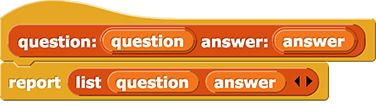
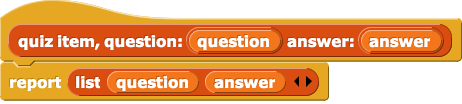
2.2 edits

diff --git a/cur/teaching-guide/U2/lab-pages/2-data-art.html b/cur/teaching-guide/U2/lab-pages/2-data-art.html
@@ -11,43 +11,6 @@
         <h2>Lab 2: Making Lists</h2>
         <div class="todo">Need to replace problem decomposition with modularity per AAP-3.B.2 and AAP-3.B.2. See vocab box on <a href="/bjc-r/cur/programming/3-lists/1-introduction-to-lists/3-looking-up-data.html?topic=nyc_bjc%2F3-lists.topic&course=bjc4nyc.html&novideo&noassignment">3.1.3, Selecting Specific Data</a>. (Appears on pages 2.2.1, for each; 2.2.4, mandala; 2.4.3, brick wall; 2.OP.4, plurals 1; and TG for 2.2 and 2.OP) --MF, 4/9/19</div>
         <div class="todo">
-            <h2>Old Shopping List Stuff to Integrate</h2>
-            <h3>Goals for the Lab:</h3>
-            <div>
-                <ul>
-                    <li>
-                        <strong>Page 1: Shopping List App.</strong>
-                        <ul>
-                            <li>Understand what a list is and be able to create one.</li>
-                            <li>Be able to (1) create a variable for storing a list, (2) initialize the variable and (3) populate the list.</li>
-                            <li>Use the <code>contains</code> list function to see whether a particular list contains a particular element.</li>
-                            <!--<li>(+) Be able to search, access and modify a list.</li>-->
-                        </ul>
-                    </li>
-                </ul>
-            </div>
-            <h3>As a Class:</h3>
-            <div>
-                <ul>
-                    <li>
-                        <strong>Page 1: Shopping List App.</strong>
-                        <ul>
-                            <div class="comment">When time, add a Google doc. --MF</div>
-                            <li>Opener: Present a short script in which a list is used without having first been initialized, resulting in an error. Ask students: What might have caused the error? What is the proper way to address this issue? </li>
-                            <li>
-                              Discussion: You may wish to review different types of data in Snap<em>!</em>: strings, lists, Booleans, numbers, functions, etc. You might ask:
-                                <ul>
-                                    <li>What is is the difference between a string and a list? (Students without prior programming experience may wonder, "what's <em>the same</em> between a string and a list?" The answer is that they're both aggregates. A string is an aggregate whose items are restricted to single characters; a list is an aggregate whose items can be anything.)</li>
-
-                                    <li>What actions can you perform on a list? What can you use lists for? (Actions might be "add an item" or "order the items"; project ideas might be "track earnings and expenses" or "organize sports data.")</li>
-                                    <li>What data types can be list items? Invite students to experiment with Snap<em>!</em> to answer this question and to consider contexts for which including various data types in a list would be useful. (A list can contain <em>any</em> data type  <em>anywhere</em>. Students will have seen only a limited set of values at this point.)</li>
-                                    <li>Can you put a list in a list? (Yes, <em>any</em> data type <em>anywhere</em>.) What are some examples of a list within a list? (Students may not have examples just yet.) This is both a preview of the next lab, "Nesting Lists," and also an introduction to the idea that nesting computational objects is common in programming. </li>
-                                </ul>
-                            </li>
-                        </ul>
-                    </li>
-                </ul>
-            </div>
             
             <div class="todo">Integrate from U1L1: 
                 <li>LG: Get to know the Snap<em>!</em> coordinate system.</li>
@@ -64,8 +27,6 @@
                     <li>
                         <strong>Across Unit 3.</strong>
                         <ul>
-                            <li><div class="sidenote">Many of the <span class="snap">snap</span> projects linked from the student pages already have the tools imported.</div>
-                            Students will have to <img class="inline" src="/bjc-r/img/icons/import-tools.png" alt="Import Tools" title="Import Tools" /> in order to access the blocks they need, every time they open a new <span class="snap">snap</span> window. (Links to projects in the curriculum have been shared with the tools already imported.)</li>
                             <li>The words "item" and "element" have the same meaning. We use "item" here because that's the name of the block that examines an item in a list. You may want to favor that word, too.</li>
                             <li>In Snap<em>!</em>, the first item of a list is considered item number 1, not number 0 as in some other languages. We think this is clearly advantageous for learners: "the third item" and "item 3" should refer to the same thing. Zero-origin list indexing is a leftover from low-level languages that do arithmetic on array indices. It's fine if some student thinks zero-origin is "right," but feel free also to say that one design goal of computer language is to be clear, and this language (Snap<em>!</em>) is designed so that ordinals (first, second, third) and cardinals (1, 2, 3)  match.</li>
                             <li>We are encouraging functional programming style, which in this case means favoring the list reporters over the list commands. Make sure that students understand, for example, that <code>all but first of</code> makes a new list; the original list given as its input is not modified.</li>
@@ -75,22 +36,11 @@
                             </li>
                         </ul>
                     </li>
-                    <li>
-                        <strong>Page 1: Shopping List App.</strong>
-                        <ul>
-                            <li>If some students work through this page more quickly than others, encourage those students to do some of the Take it Further exercises and also to consider designing and making their own adaptations to their Shopping List App.</li>
-                            <li><code>Keep</code> and <code>Combine</code> are presented here. If you are assigning lab 3, this is a good time to make sure all the students are exposed to these higher order list functions. If you are skipping lab 3, you can skip these as well.</li>
-                        </ul>
-                    </li>
+                    
                 </ul>
             </div>
     
-            <h3>Solutions</h3>
-            <div>
-                <ul>
-                    <li><a href="http://snap.berkeley.edu/snapsource/snap.html#cloud:Username=BJCsolutions&ProjectName=U3L1p1%20all%20ShoppingList%20(answer%20file)" target="_blank">page 1 (Shopping List)</a></li>
-                </ul>
-            </div>
+            
         </div>
         <p>The <code>list</code> block is the basic building block of many  complex structures. Lists can contain anything: numbers, strings, other lists, even blocks. The objects <em>in</em> a list can be all of the same kind or of different kinds. A list can, for example, contain an apartment number and a list of people at that address. The tabular data we see in spreadsheets can be represented as a list of same-length lists, the smaller lists representing each row in the table, and the enclosing list representing the entire spreadsheet.</p>
         <p> The "ordered pair" of algebra, the (<em>x</em>, <em>y</em>) coordinates of a point on a plane, can be represented as a list of two numbers. Students will use a list of ordered pairs to draw a shape or plot a graph.</p>
@@ -133,6 +83,96 @@
 		<div>
 			<ul>
 				<li>
+					<strong>Page 1: Shopping List App.</strong>
+					<div class="todo"><h2>What of this Old Shopping List Stuff do we want to Integrate? --MF, 7/2/19</h2>
+                        <div class="comment">When time, add a Google doc. --MF</div>
+                        <ul>
+                            <li>Opener: Present a short script in which a list is used without having first been initialized, resulting in an error. Ask students: What might have caused the error? What is the proper way to address this issue? </li>
+                            <li>
+                              Discussion: You may wish to review different types of data in Snap<em>!</em>: strings, lists, Booleans, numbers, functions, etc. You might ask:
+                                <ul>
+                                    <li>What is is the difference between a string and a list? (Students without prior programming experience may wonder, "what's <em>the same</em> between a string and a list?" The answer is that they're both aggregates. A string is an aggregate whose items are restricted to single characters; a list is an aggregate whose items can be anything.)</li>
+
+                                    <li>What actions can you perform on a list? What can you use lists for? (Actions might be "add an item" or "order the items"; project ideas might be "track earnings and expenses" or "organize sports data.")</li>
+                                    <li>What data types can be list items? Invite students to experiment with Snap<em>!</em> to answer this question and to consider contexts for which including various data types in a list would be useful. (A list can contain <em>any</em> data type  <em>anywhere</em>. Students will have seen only a limited set of values at this point.)</li>
+                                    <li>Can you put a list in a list? (Yes, <em>any</em> data type <em>anywhere</em>.) What are some examples of a list within a list? (Students may not have examples just yet.) This is both a preview of the next lab, "Nesting Lists," and also an introduction to the idea that nesting computational objects is common in programming. </li>
+                                </ul>
+                            </li>
+                        </ul>
+                    </div>
+                    <ul>
+						<li>
+							<strong>Learning Goals:</strong>
+							<ul>
+                                <li>Understand what a list is and be able to create one.</li>
+                                <li>Be able to (1) create a variable for storing a list, (2) initialize the variable and (3) populate the list.</li>                            
+							</ul>
+						</li>
+						<li>
+							<strong>Tips:</strong>
+							<ul>
+                                <li>
+                                    A common mistake is for programmers to create an initialization instruction (the <code>set</code> instruction) but forget to run it (e.g., actually click it). If students run into the following error, they need to run <code>set (shopping list) to (list)</code> to initialize the list.<br />
+                                    <img class="indent" src="/bjc-r/img/2-complexity/error-list-not-initialized.png" alt="code for 'Add Item' button displaying a speech balloon with the error message 'Error; expecting list but getting number' displayed beside a 'shopping list' watcher showing the value of that variable to be 0" title="code for 'Add Item' button displaying a speech balloon with the error message 'Error; expecting list but getting number' displayed beside a 'shopping list' watcher showing the value of that variable to be 0" />
+                                </li>
+                            </ul>
+                        </li>
+                    </ul>
+                </li>
+                <li>
+					<strong>Page 2: Planning a Quiz App.</strong>
+					<ul>
+						<li>
+							<strong>Learning Goals:</strong>
+							<ul>
+                                <li>Understand what an abstract data type (ADT) is, how it's helpful, and how to construct one by building a constructor and selectors.</li>                            
+							</ul>
+						</li>
+						<li>
+							<strong>Tips:</strong>
+							<ul>
+                                <li>ADTs appear in several projects throughout the year, including a <code>point</code> ADT for storing locations on the stage later in this unit, a <code>contact</code> ADT for storing individuals' data in a contact list in Unit 3, and selectors for a <code>table</code> ADT used for data processing in Unit 5. This first introduction relies on the simple an intuitive connection between quiz questions and their associated correct answers.</li>
+                            </ul>
+                        </li>
+                    </ul>
+                </li>
+                <li>
+					<strong>Page 3: Checking Each Quiz Answer.</strong>
+					<ul>
+						<li>
+							<strong>Learning Goals:</strong>
+							<ul>
+                                <li></li>                            
+							</ul>
+						</li>
+						<li>
+							<strong>Tips:</strong>
+							<ul>
+                                <li></li>
+                            </ul>
+                        </li>
+                    </ul>
+                </li>
+                <li>
+					<strong>Page 4: ...</strong>
+					<ul>
+						<li>
+							<strong>Learning Goals:</strong>
+							<ul>
+                                <li></li>                            
+							</ul>
+						</li>
+						<li>
+							<strong>Tips:</strong>
+							<ul>
+                                <li></li>
+                            </ul>
+                        </li>
+                    </ul>
+                </li>
+                <div class="todo">
+                    <h1>Old Stuff Below; probably much is salvageable</h1></div>
+                <li>
 					<strong>Page 1: Processing Each Item in a List.</strong>
 					<ul>
 						<li>
@@ -303,7 +343,14 @@
 
 
         <h3>Solutions</h3>
-		<div class="todo">2.2.3 Solution (and perhaps other files) has household income stag costume in it. Check that this is correct. --MF, 1/18/19</div><div>
+		<div class="todo"><h1>SOLUTIONS NEED WORK --MF, 7/2/19</h1></div>
+        <div class="todo">2.2.3 Solution (and perhaps other files) has household income stag costume in it. Check that this is correct. --MF, 1/18/19</div><div>
+        <div class="todo"><h3>OLDSolutions</h3>
+            <div>
+                <ul>
+                    <li><a href="http://snap.berkeley.edu/snapsource/snap.html#cloud:Username=BJCsolutions&ProjectName=U3L1p1%20all%20ShoppingList%20(answer%20file)" target="_blank">page 1 (Shopping List)</a></li>
+                </ul>
+            </div></div>
         <div>
             <ul>
                 

diff --git a/cur/programming/2-complexity/2-data-structures-art/2-quizzes.html b/cur/programming/2-complexity/2-data-structures-art/2-quizzes.html
@@ -15,6 +15,46 @@
         <div class="learn">
             <p><strong>On this page,</strong> you will begin to develop a quiz app by creating a structure to pair the questions with their answers.</p>
         </div>
+        
+        <div class="forYouToDo" id="first">
+			<ol>
+                <li><img class="inline" src="/bjc-r/img/icons/talk-with-your-partner.png" alt="Talk with Your Partner" title="Talk with Your Partner" />
+Decide what type of quiz you would like to build, and write three to five questions and their correct answers.</li>
+			</ol>
+		</div>
+        
+        <p>
+            You'll use a list to store your quiz items in a variable. You could just put all the questions and their answers in a list like this and then use <img src="/bjc-r/img/blocks/item-empty-full-size.png" height="35" alt="item () of 'list input slot'" title="item () of 'list input slot'"> to retrieve each question and answer:  <br />
+            <img class="indent" src="/bjc-r/img/2-complexity/quiz-questions-list.png" alt="set (computer science quiz) to (list (What is the computer science term for looping or repetition?) (iteration) (What is the name for the abstraction in a program that can hold a value?) (variable) (What kind of variable is available only in the part of the program where it is defined?) (local variable) (What is the process of testing your program, finding problems, and fixing them called?) (debugging))" title="set (computer science quiz) to (list (What is the computer science term for looping or repetition?) (iteration) (What is the name for the abstraction in a program that can hold a value?) (variable) (What kind of variable is available only in the part of the program where it is defined?) (local variable) (What is the process of testing your program, finding problems, and fixing them called?) (debugging))"><br />
+            That might be ok for the first quiz item (you could use <img class="inline nopadtb" src="/bjc-r/img/2-complexity/item-1-of-csquiz.png" alt="item (1) of (computer science quiz)" title="item (1) of (computer science quiz)"> to get the first question and <img class="inline nopadtb" src="/bjc-r/img/2-complexity/item-2-of-csquiz.png" alt="item (2) of (computer science quiz)" title="item (2) of (computer science quiz)"> to get the first answer), but for the third quiz item, you'd need list items five and size, and that approach is inelegant and prone to errors.
+        </p>
+        <p>
+            Instead, you can use a separate list for each quiz item (each question/answer pair) to keep things more organized. Then you could choose one of those lists at a time to work with.
+            <a href="#hint-separate" data-toggle="collapse" title="Click for an example of using a separate list for each quiz item.">Click for an example of using a separate list for each quiz item.</a>
+            <div id="hint-separate" class="collapse">
+                <img class="indent" src="/bjc-r/img/2-complexity/quiz-questions-list-of-lists.png" alt="set (computer science quiz) to (list (list (What is the computer science term for looping or repetition?) (iteration)) (list (What is the name for the abstraction in a program that can hold a value?) (variable)) (list (What kind of variable is available only in the part of the program where it is defined?) (local variable)) (list (What is the process of testing your program, finding problems, and fixing them called?) (debugging)))" title="set (computer science quiz) to (list (list (What is the computer science term for looping or repetition?) (iteration)) (list (What is the name for the abstraction in a program that can hold a value?) (variable)) (list (What kind of variable is available only in the part of the program where it is defined?) (local variable)) (list (What is the process of testing your program, finding problems, and fixing them called?) (debugging)))">
+            </div>
+        </p>
+        <p>
+            But an even for elegant solution is to use abstraction. You could even create a custom block that makes a quiz item so it's easier to see which values are the questions, which are the answers, and what is paired with what:<br />
+            <img class="indent" src="/bjc-r/img/2-complexity/quiz-questions-constructor-definition.png" alt="quiz item, question: (question) answer: (answer) {report (list (question) (answer))}" title="quiz item, question: (question) answer: (answer) {report (list (question) (answer))}">
+            <img class="indent" src="/bjc-r/img/2-complexity/quiz-questions-list-of-adts.png" alt="set (computer science quiz) to (list (question: (What is the computer science term for looping or repetition?) answer: (iteration)) (question: (What is the name for the abstraction in a program that can hold a value?) answer: (variable)) (question: (What kind of variable is available only in the part of the program where it is defined?) answer: (local variable)) (question: (What is the process of testing your program, finding problems, and fixing them called?) answer: (debugging)))" title="set (computer science quiz) to (list (question: (What is the computer science term for looping or repetition?) answer: (iteration)) (question: (What is the name for the abstraction in a program that can hold a value?) answer: (variable)) (question: (What kind of variable is available only in the part of the program where it is defined?) answer: (local variable)) (question: (What is the process of testing your program, finding problems, and fixing them called?) answer: (debugging)))">
+        </p>
+    <div class="todo">The alt/title text on the second image just above needs attention. Also, should that image have fewer questions? --MF, 7/2/19</div>
+        
+        
+        
+        
+        
+		
+
+        <div class="todo">
+            <hr />
+            <h1>Old version below</h1>
+            <hr />
+        </div>
+        
+        
         <div class="todo">I think they need some kind of solid experience with <code>item of</code> before we abstract it away with an ADT. Gossip was just an introduction and it only used random, so we weren't really thinking about accessing any particular item. I believe something else is needed here before ADTs. --MF, 4/15/19</div>
         <div class="todo">
             <p>Lists can contain letters or words, as you've seen before; lists, as you'll see in this lab; or even blocks, as you'll see in Unit 6. </p>
@@ -34,6 +74,7 @@
             <div class="vocabBig">
 				<p>The <strong>index</strong> of an item in a list is the number for its position in the list.</p>
                 <div class="todo"><p>Every element of a list is assigned a unique <strong>index</strong> for referencing specific elements.</p></div>
+                <div class="todo">AAP-1.C.3 (partial). We address the part about strings on <a href="http://localhost/bjc-r/cur/programming/2-complexity/3-predicates/3-solving-word-puzzle.html?topic=nyc_bjc%2F2-conditionals-abstraction.topic&course=bjc4nyc.html&novideo&noassignment">2.3.3</a>. --MF, 12/19/18</div>
             </div>
         </div> 
 
@@ -52,6 +93,7 @@
         <div class="forYouToDo" id="first">
             <ol>
             	<li><div class="newProject"><span class="text">"U2L2-Quiz"</span><img src="/bjc-r/img/icons/new-project-called.png" alt="Create a new project called U2L2-Quiz" title="Create a new project called U2L2-Quiz" /></div></li>
+                <div class="todo">We should not have them do it the wrong way first! --MF, 7/2/19</div>
                 <li>Decide what type of quiz you would like to build, write three to five questions and their correct answers, and store them in a variable as a list.</li>
             </ol>
         </div>
@@ -65,6 +107,14 @@
             </ul>
         </div>
         
+        <div class="todo">Shouldn't <code>item of</code> be taught as EBF? --MF, 7/2/19
+            <div class="forYouToDo">
+                <ol start="3">
+                    <li>Experiment with different inputs to the <img class="inline nopadtb" src="/bjc-r/img/blocks/item-empty-full-size.png" alt="item () of 'list input slot'" title="item () of 'list input slot'" /> block to access different rows in the dataset. (This was pulled from U5 and would need to be adapted here.)</li>
+                </ol>
+            </div>
+        </div>
+
         <div class="dialogue">
             <div class="stagedir">
                 <p>The students are discussing how to store each of the quiz questions together with their matching answers.</p>
@@ -138,6 +188,7 @@
                     <img class="indent" src="/bjc-r/img/2-complexity/question-answer-constructor.png" alt="question: () answer: ()" title="question: () answer: ()" />
                     <img class="indent" src="/bjc-r/img/2-complexity/question-selector.png" alt="question from ()" title="question from ()"/>
                     <img class="indent" src="/bjc-r/img/2-complexity/answer-selector.png" alt="answer from ()" title="answer from ()"/>
+                    <div class="todo">Are we certain this shouldn't be a FYTD? With ADTs, I don't think it's decoration. Highlighting the expected input type helps prevent bugs. --MF, 7/2/19</div>
                 </div>
             </ul> 
         </div>

diff --git a/cur/programming/2-complexity/2-data-structures-art/1-shopping-list-app.html b/cur/programming/2-complexity/2-data-structures-art/1-shopping-list-app.html
@@ -26,25 +26,29 @@
         <div class="forYouToDo" id="first">
 			<ol>
                 <img class="imageRight" src="/bjc-r/img/icons/pair-programming-swap-reminder.png" alt="Remember to Do Pair Programming Swaps" title="Remember to Do Pair Programming Swaps" />
-				<li><a class="run" href="/bjc-r/prog/2-complexity/U2L2-ShoppingList.xml" target="_blank"><img class="inline" src="/bjc-r/img/icons/load-save.png" alt="Click here to load this file. Then save it to your Snap! account." title="Click here to load this file. Then save it to your Snap! account."></a> This project contains button costumes for the sprites the user will click to control the items on their shopping list.</li>
+				<li><a class="run" href="/bjc-r/prog/2-complexity/U2L2-ShoppingList.xml" target="_blank"><img class="inline" src="/bjc-r/img/icons/load-save.png" alt="Click here to load this file. Then save it to your Snap! account." title="Click here to load this file. Then save it to your Snap! account."></a> This project contains button costumes for the sprites that the user will click to control the items on their shopping list.</li>
                 <img class="indent" data-gifffer="/bjc-r/img/3-lists/shopping-list-project-v3.gif" alt="animation of shopping list app">
                 <div class="sidenoteBig">You learned how to create and initialize (set) a global variable on <a href="/bjc-r/cur/programming/2-complexity/1-variables-games/4-keeping-score.html?topic=nyc_bjc%2F2-conditionals-abstraction.topic&course=bjc4nyc.html&novideo&noassignment" title="Unit 2 Lab 1 Page 4: Keeping Score with Global Variables">Unit 2 Lab 1 Page 4: Keeping Score with Global Variables</a>.</div>
                 <li>Make a global variable called <var>shopping list</var> to store the information.</li>
                 <li>
-                    Set the starting value of <var>shopping list</var> to be an <em>empty</em> list (a list with nothing in it). You will need a <img class="inline" src="/bjc-r/img/blocks/list-full-size.png" alt="list ()" title="list ()"> block. 
+                    Initialize <var>shopping list</var> as an <em>empty</em> list (a list with nothing in it). You will need a <img class="inline" src="/bjc-r/img/blocks/list-full-size.png" alt="list ()" title="list ()"> block. 
                     <div class="endnote">Use its left arrow to get rid of the input slot so that it looks like this: <img src="/bjc-r/img/blocks/empty-list-block.png" alt="list" title="list">. That way, you will have an empty list rather than a list with one empty item.</div>
                 </li>
             </ol>
         </div>
     
         <div class="vocabBig">
-            <p>An <strong>element</strong> is another name for an item in a list.</p>
-            <div class="todo">
-                AAP-1.C.2 and AAP-1.C.3
-                <p>Re AAP-1.C.3, We address <strong>element</strong> here, <strong>index</strong> on the next page, and the part about strings on <a href="http://localhost/bjc-r/cur/programming/2-complexity/3-predicates/3-solving-word-puzzle.html?topic=nyc_bjc%2F2-conditionals-abstraction.topic&course=bjc4nyc.html&novideo&noassignment">2.3.3</a>. --MF, 12/19/18</p>
-            </div>
+            <div class="todo">BH, I added a sentence here. Edits? --MF, 7/2/19</div>
+            <p>An <strong>element</strong> is another name for an item in a list. It's an individual value in a list.</p>
+            <div class="todo">AAP-1.C.2</div>
         </div>
-        <p>You can use the <img class="inline" src="/bjc-r/img/blocks/insert.png" alt="insert (thing) at (1) of 'list input slot'" title="insert (thing) at (1) of 'list input slot'" /> or <img class="inline" src="/bjc-r/img/blocks/add.png" alt="add (thing) to 'list input slot'" title="add (thing) to 'list input slot'" /> block to add items to a list. <code>Insert</code> puts the new item <em>before</em> the place you specify. <code>Add</code> puts the item <em>after</em> the last existing item. </p>
+        <p>
+            You can use the <img class="inline" src="/bjc-r/img/blocks/insert.png" alt="insert (thing) at (1) of 'list input slot'" title="insert (thing) at (1) of 'list input slot'" /> or <img class="inline" src="/bjc-r/img/blocks/add.png" alt="add (thing) to 'list input slot'" title="add (thing) to 'list input slot'" /> block to add elements to a list. 
+            <ul>
+                <li><code>Insert</code> puts the new item <em>before</em> the place you specify.</li>
+                <li><code>Add</code> puts the item <em>after</em> the last existing item.</li>
+            </ul>
+        </p>
         <div class="endnote">
             Some block input slots expect a list as input. You can tell because the input slot looks kind of like a list:<br />
             <img class="indent" src="/bjc-r/img/blocks/item.png" alt="item (1) of 'list input slot'" title="item (1) of 'list input slot'" />
@@ -54,18 +58,20 @@
         
         <div class="forYouToDo">
             <ol start="4">
-                <div class="sidenoteBig">You've seen the <code>ask</code> and <code>answer</code> blocks on <a href="/bjc-r/cur/programming/2-complexity/1-variables-games/1-number-guessing-game.html?topic=nyc_bjc%2F2-conditionals-abstraction.topic&course=bjc4nyc.html&novideo&noassignment" title="Unit 2 Lab 1 Page 2: Checking the Player's Guess">Unit 2 Lab 1 Page 2: Checking the Player's Guess</a>.</div>
+                <div class="sidenoteBig">You've seen the <code>ask</code> and <code>answer</code> blocks on <a href="/bjc-r/cur/programming/2-complexity/1-variables-games/2-checking-player-guess.html?topic=nyc_bjc%2F2-conditionals-abstraction.topic&course=bjc4nyc.html&novideo&noassignment" title="Unit 2 Lab 1 Page 2: Checking the Player's Guess">Unit 2 Lab 1 Page 2: Checking the Player's Guess</a>.</div>
+                <div class="todo">Are we sure they are comfortable writing code for different sprites? Might they need a reminder? --MF, 7/2/19</div>
                 <li>
-                    Write a script for the "Add Item" button so that when that sprite is clicked, it will ask the user for a new item, and then add the new item to the grocery list. 
+                    Write a script for the "Add Item" button so that when that sprite is clicked, it will ask the user for a new item, and then add (or insert) the user's answer into the grocery list. 
                 </li>
                 <li>Test your "Add Item" button several times and fix any problems.</li>
-                <div class="todo">TG: A common mistake is for programmers to create the initialization instruction (the <code>set</code> instruction) but forget to run it.</div>
                 <li>Write a script for the "Clear List" button that asks the user if they're sure and then sets <var>shopping list</var> back to an empty list.</li>
+                <div class="todo">Have we told them that they can drag code onto another sprite and it will duplicate it there? If not, here is a nice place. --MF, 7/2/19</div>
                 <img class="imageRight" src="/bjc-r/img/icons/save-now.png" alt="Now Is a Good Time to Save" title="Now Is a Good Time to Save" />
                 <li>Test your "Clear List" button and fix it if needed.</li>
             </ol>
         </div>
         
+        <div class="todo">How do we imagine they will build code for the search button? They haven't learned <code>keep</code>. I suggest cutting that. --MF, 7/2/19</div>
         <div class="takeItFurther">
             <ol type="A">
                 <li>Improve the "Add Item" button to add new items only if they are not already on the list. You can use <img class="inline nopadtb" src="/bjc-r/img/blocks/contains-empty.png" alt="'list input slot' contains ()" title="'list input slot' contains ()" /> to see if an item is already on the list.</li>
